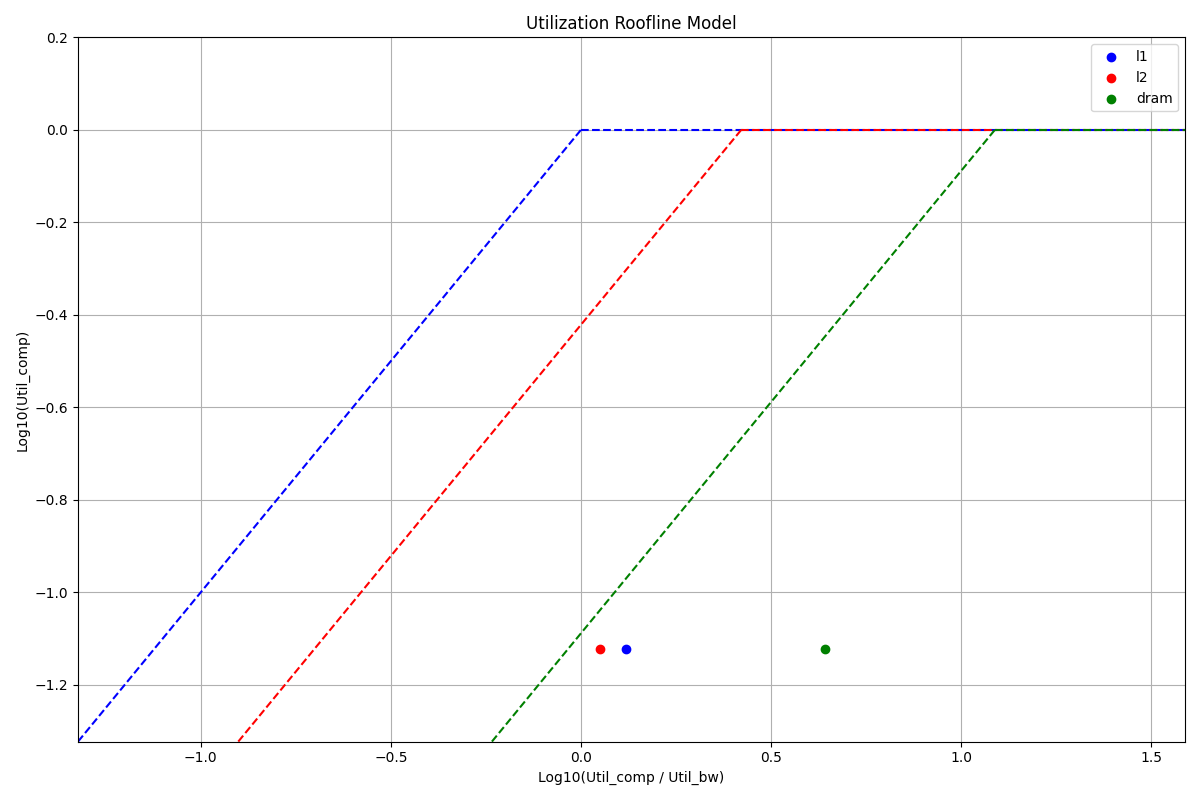
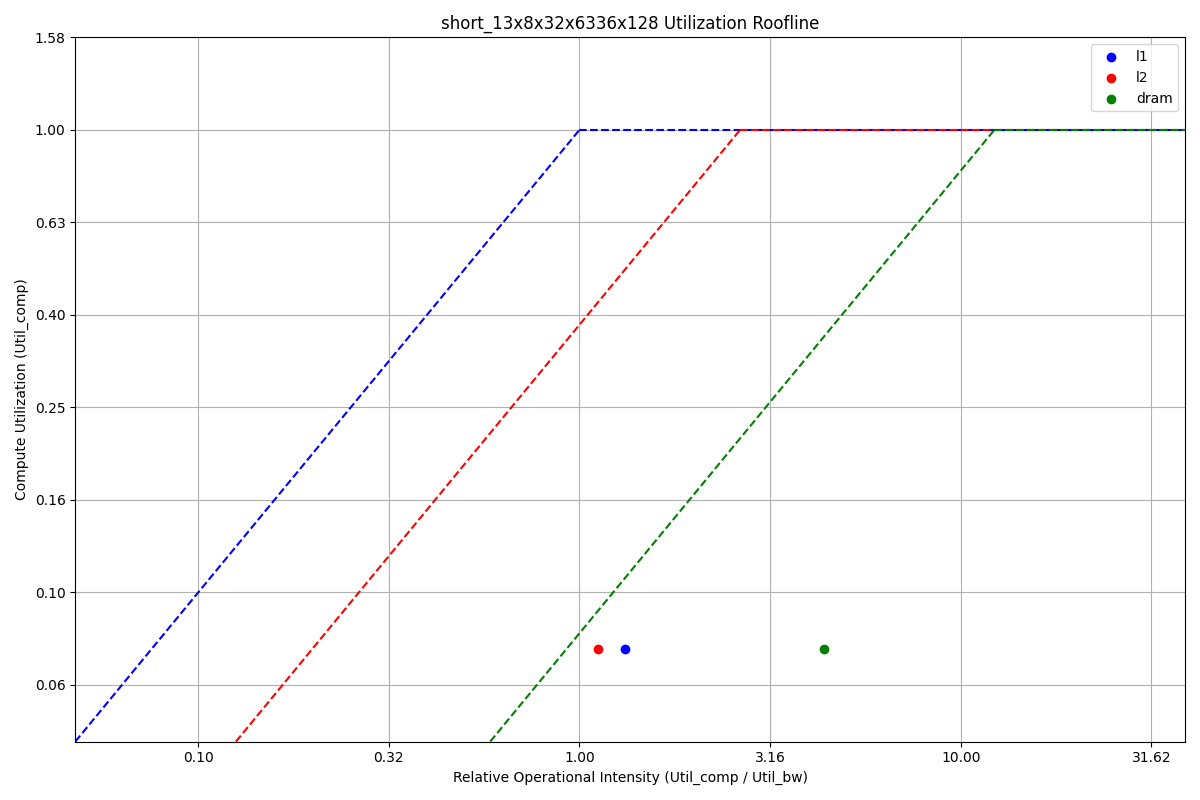
Fix title

diff --git a/kernels/test_04_15_09_58/plot_scripts/plot_single_roofline.py b/kernels/test_04_15_09_58/plot_scripts/plot_single_roofline.py
@@ -39,7 +39,7 @@ def get_points(df, arch_config):
         points[tier] = (x, y)
     return points
 
-def plot_roofline(df, arch_config, output_file):
+def plot_roofline(df, exp_name, arch_config, output_file):
     points = get_points(df, arch_config)
     # Get min x and max x 
     x_min = min(points["l1"][0], points["l2"][0], points["dram"][0])
@@ -73,10 +73,23 @@ def plot_roofline(df, arch_config, output_file):
     for tier, point in points.items():
         print(f"{tier}: {point}")
         plt.scatter(point[0], point[1], color=colors[tier], label=tier)
+    # Create custom tick formatter to display actual values instead of log values
+    def format_ticks_x(x, pos):
+        return f"{10**x:.2f}"
+    
+    def format_ticks_y(y, pos):
+        return f"{10**y:.2f}"
+    
+    # Apply formatters to axes
+    ax = plt.gca()
+    from matplotlib.ticker import FuncFormatter
+    ax.xaxis.set_major_formatter(FuncFormatter(format_ticks_x))
+    ax.yaxis.set_major_formatter(FuncFormatter(format_ticks_y))
+    
     # Add labels
-    plt.xlabel('Log10(Util_comp / Util_bw)')
-    plt.ylabel('Log10(Util_comp)')
-    plt.title('Utilization Roofline Model')
+    plt.xlabel('Relative Operational Intensity (Util_comp / Util_bw)')
+    plt.ylabel('Compute Utilization (Util_comp)')
+    plt.title(f'{exp_name} Utilization Roofline')
 
     plt.xlim(plot_min_x, plot_max_x)
     plt.ylim(plot_min_y, 0.2)
@@ -90,7 +103,8 @@ def plot_roofline(df, arch_config, output_file):
 def main(profile_file, arch, output_file):
     arch_config = config[arch]
     df = pd.read_csv(profile_file)
-    plot_roofline(df, arch_config, output_file)
+    exp_name = profile_file.split("/")[-1].split(".")[0]
+    plot_roofline(df, exp_name, arch_config, output_file)
     print(f"Plot saved to {output_file}")
 
 if __name__ == "__main__":
@@ -102,5 +116,4 @@ if __name__ == "__main__":
     profile_file = sys.argv[1]
     arch = sys.argv[2]
     output_file = sys.argv[3]
-    
     main(profile_file, arch, output_file)
